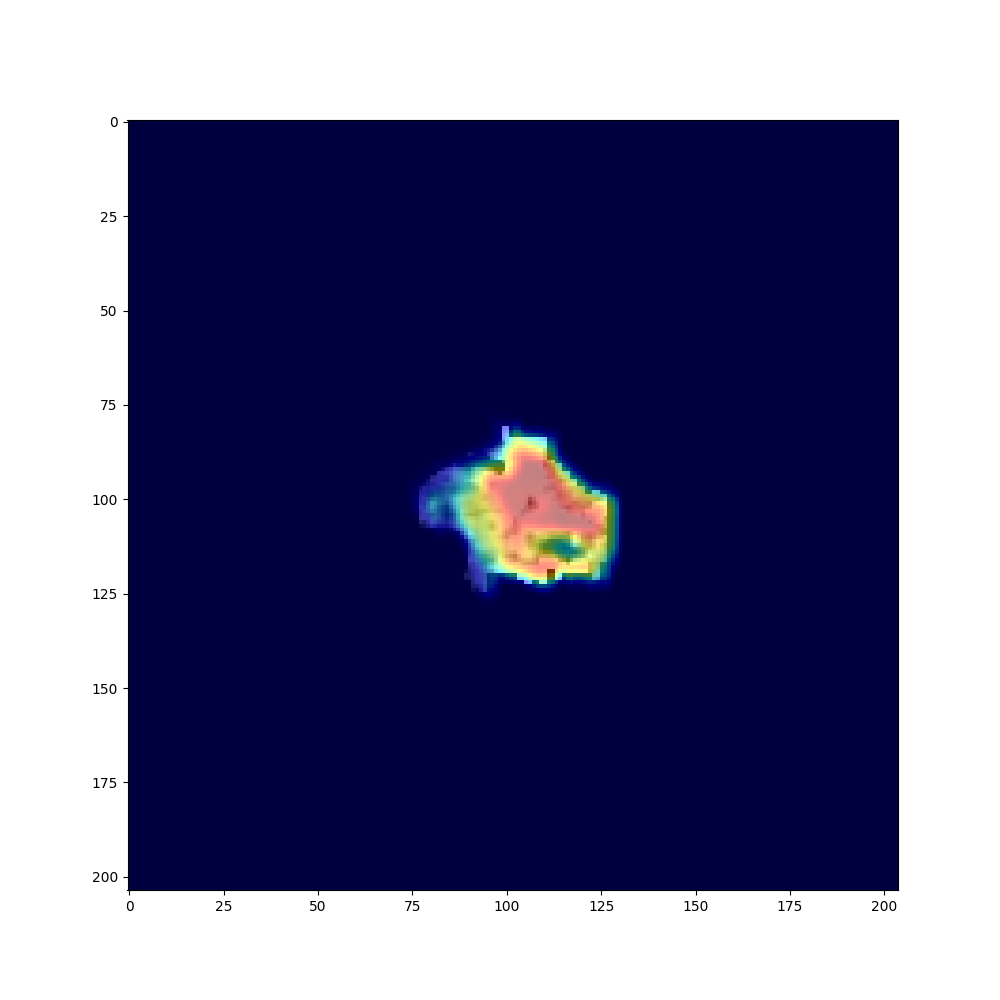
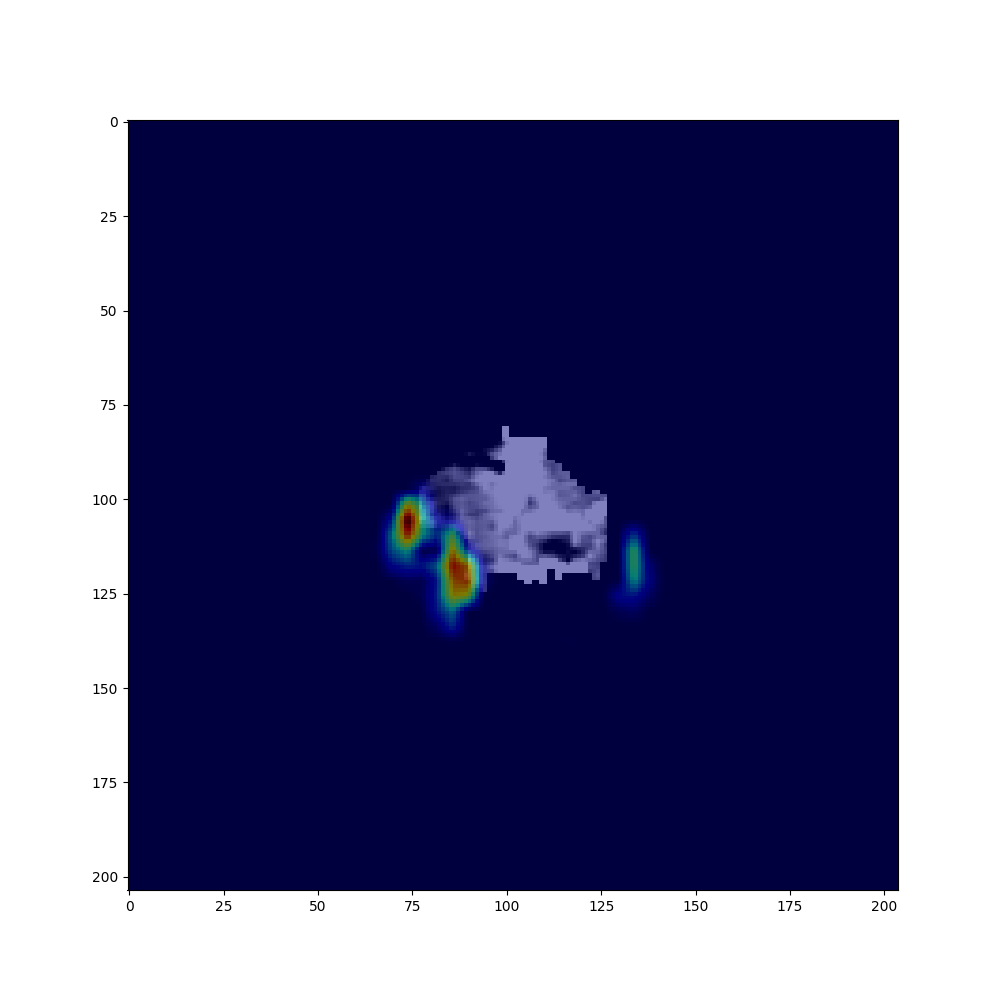
Fixed medcam plotting

Changed region(s): [[0.372, 0.403, 0.682, 0.651]]

diff --git a/Network/Testing.py b/Network/Testing.py
@@ -67,6 +67,8 @@ print("Testing")
 test_predictions, test_targets = test_loop(test_dataloader, model, device, 
 image_dimension)
 
+print(test_predictions, test_targets)
+
 # Define test results
 test_results = Results(test_predictions,test_targets)
 accuracy = test_results.accuracy()
@@ -81,12 +83,12 @@ specificity = test_results.specificity
 G_mean = test_results.G_mean
 
 # Append test results to csv
-if os.path.isfile('Results.csv'):
+if os.path.isfile('test_runs/Results.csv'):
     # Append row
     with open('test_runs/Results.csv', 'a', newline='') as csvfile:
         filewriter = csv.writer(csvfile, delimiter=',')
         filewriter.writerow([date, accuracy, sensitivity, precision, F1_measure,
-         tp, tn, fp, fn, specificity, G_mean])
+        tp, tn, fp, fn, specificity, G_mean])
 else:
     # Create and then add row
     with open('test_runs/Results.csv', 'w', newline='') as csvfile:
@@ -100,24 +102,24 @@ else:
 # Save medcam images for each layer
 layer_names = ['conv1', 'layer1', 'layer2', 'layer3', 'layer4', 'conv2']
 for layer in layer_names:
-    model = medcam.inject(model, output_dir="medcam_test", 
-        save_maps=True, layer=layer, replace=True)
-    print(medcam.get_layers(model))
-    model.eval()
+    x = medcam.inject(model, output_dir="medcam_test", 
+        save_maps=False, layer=layer, replace=True) # save_maps=True for nii
+    # print(medcam.get_layers(model))
+    x.eval()
     image, label, pid = next(iter(test_dataloader))
     filename = pid[0][0]
     image = image[None].to(device, torch.float)
-    attn = model(image)
+    attn = x(image)
 
     attn = np.squeeze(attn.cpu().numpy())
     img = np.squeeze(image.cpu().numpy())
-    print(img.shape, attn.shape)
+    # print(img.shape, attn.shape)
     slice_num = 102
     fig, ax = plt.subplots(1,1, figsize=(10,10))
     im = img[..., slice_num]
     attn = attn[..., slice_num]
-    print(pid)
-    print(attn.max(), attn.min())
+    # print(pid)
+    # print(attn.max(), attn.min())
     ax.imshow(im, cmap='gray')
     ax.imshow(attn, cmap='jet', alpha=0.5)
     fig.savefig(f'test_runs/{date}/{layer}.png')

diff --git a/Network/Results.py b/Network/Results.py
@@ -30,13 +30,13 @@ class Results:
     self.fn = 0
     i = 0
     while i < len(self.predictions):
-      if (predictions[i] == targets[i] and predictions[i] == 1):
+      if ((predictions[i] == targets[i]) and (predictions[i] == 1)):
         self.tp += 1
-      elif (predictions[i] == targets[i] and predictions[i] == 0):
+      elif ((predictions[i] == targets[i]) and (predictions[i] == 0)):
         self.tn += 1
-      elif (predictions[i] != targets[i] and predictions[i] == 1):
+      elif ((predictions[i] != targets[i]) and (predictions[i] == 1)):
         self.fp += 1
-      elif (predictions[i] != targets[i] and predictions[i] == 0):
+      elif ((predictions[i] != targets[i]) and (predictions[i] == 0)):
         self.fn += 1
       i += 1
     
